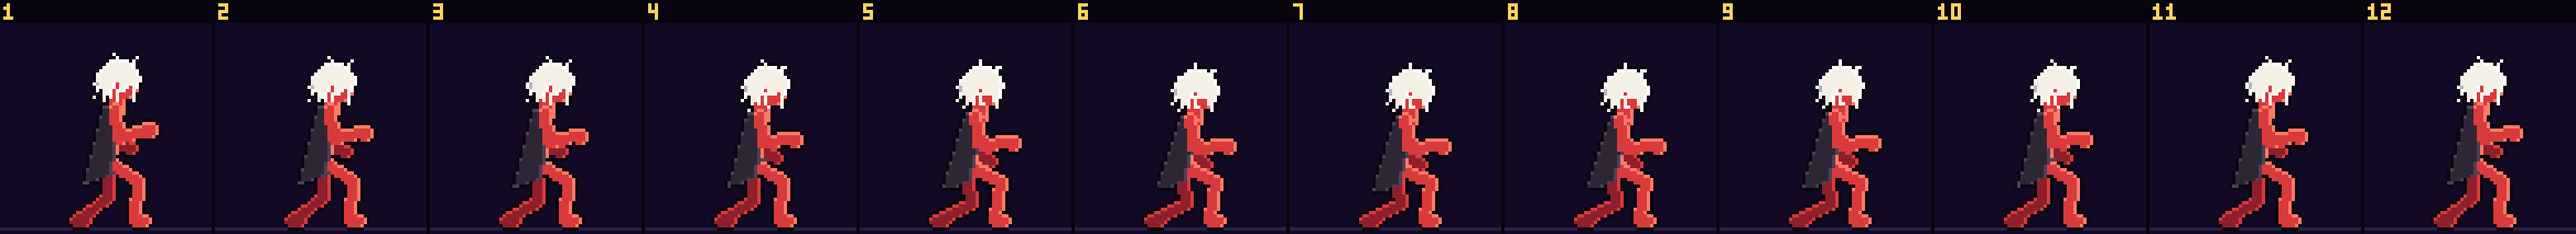
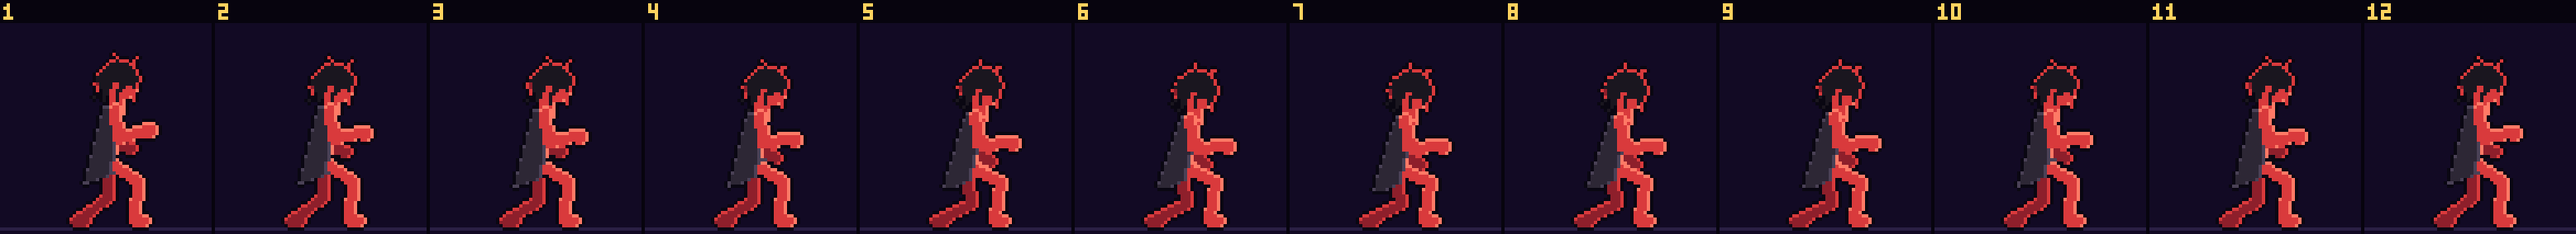
라이덴 머리 색을 검정·빨강으로 (사용자 결정): 검은 윗단에 붉은 윤기 테두리, 붉은 안쪽 머리. 빨간 머리는 붉은 몸·얼굴과 뭉쳐 모양이 사라져 검은 머리로 정함. 2P는 검붉은 안쪽 머리. 역안(눈)은 그리지 않기로 확정. 셔츠 깃 회색 이름 hairShade → shirtGrey. 캐릭터 기획서 표식·열린 질문 갱신, 겉모습 미리보기 다시 찍음
Claude-Session: https://claude.ai/code/session_01Q6VeBSuSW7Ut9sfqEmmRRh

diff --git a/src/anim/decor/raiden.ts b/src/anim/decor/raiden.ts
@@ -2,9 +2,10 @@ import type { Joints, Point } from '../pose';
 import type { Decor } from '../skeleton';
 
 /*
- * 라이덴 표식 (캐릭터 기획서): 흰 샤기컷 머리(삐쭉하게 삐친 선), 정장 재킷 자락과 넥타이.
+ * 라이덴 표식 (캐릭터 기획서): 샤기컷 머리(삐쭉하게 삐친 선), 정장 재킷 자락과 넥타이.
+ * 머리 색은 검정·빨강 (2026-11-01 결정, 처음 기획의 흰 머리에서 바꿈): 검은 윗단에 붉은 윤기 테두리, 붉은 안쪽 머리.
  * 모두 관절에 붙는 도형이라 어떤 동작에서도 따라간다. 오른쪽을 보는 모습 기준 (왼쪽은 시트를 그릴 때 뒤집는다).
- * 왼쪽 눈의 역안은 CLAUDE.md '눈 그리지 않기'와 겹쳐 아직 그리지 않는다.
+ * 왼쪽 눈의 역안은 그리지 않는다 (2026-11-01 결정, CLAUDE.md '눈 그리지 않기').
  */
 
 const add = (a: Point, b: Point, k = 1): Point => [a[0] + b[0] * k, a[1] + b[1] * k];
@@ -20,10 +21,10 @@ function torso(j: Joints): { up: Point; down: Point; front: Point } {
 }
 
 /**
- * 머리 (흰 샤기컷, 애니메이션 미소년풍): 머리 기준 좌표 [앞 +, 위 +] (머리 반지름 5).
+ * 머리 (샤기컷, 애니메이션 미소년풍): 머리 기준 좌표 [앞 +, 위 +] (머리 반지름 5).
  * 숱 많은 둥근 볼륨에, 가닥 끝이 가늘고 뾰족하게 아래로 떨어진다. 앞머리는 눈을 덮을 만큼 길게(코 높이까지),
  * 볼을 따라 가닥이 내려오고, 뒷머리는 목덜미로 부드럽게 처진다. 위로 몇 가닥이 가볍게 삐친다.
- * 두 겹: 아랫단(서늘한 회색, 그늘진 안쪽) 위에 윗단(흰색). 가닥: [뿌리 한쪽, 뿌리 다른 쪽, 끝]
+ * 두 겹: 아랫단(검붉은 안쪽 머리) 위에 윗단(검정, 빛 받는 가장자리는 붉은 윤기). 가닥: [뿌리 한쪽, 뿌리 다른 쪽, 끝]
  */
 type Lock = readonly [readonly [number, number], readonly [number, number], readonly [number, number]];
 /** 아랫단: 목덜미로 처지는 뒷머리 안쪽과 볼 옆으로 내려오는 가닥 */
@@ -75,7 +76,7 @@ export const RAIDEN_DECOR: Decor = {
       s.line(knot, add(add(top, down, 9), front, 1.8), 2);
     });
   },
-  /** 흰 머리: 아랫단(그늘) → 둥근 볼륨과 윗단 가닥 → 삐친 가닥 */
+  /** 머리: 아랫단(붉은 안쪽 머리) → 둥근 볼륨과 윗단 가닥 → 삐친 가닥 */
   head(pen, j) {
     const c = j.head;
     const r = j.ha;

diff --git a/src/render/palette.ts b/src/render/palette.ts
@@ -18,7 +18,7 @@ export const COLORS = {
   skyDark: '#2a7fa6',
   red: '#ff4d6d',
   green: '#7bd88f',
-  // 라이덴 (대표 색: 붉은 전격, 검붉은 잔상). 몸은 붉은색, 정장 재킷은 검은 보랏빛, 머리는 흰색
+  // 라이덴 (대표 색: 붉은 전격, 검붉은 잔상). 몸은 붉은색, 정장 재킷과 머리는 검은 보랏빛(머리는 붉은 안쪽 머리·붉은 윤기)
   raiden: '#d93a3c',
   raidenLight: '#ff7a66',
   raidenDark: '#8e1f2b',
@@ -29,7 +29,7 @@ export const COLORS = {
   suitGrey: '#575163',
   suitGreyLight: '#787286',
   suitGreyDark: '#38333f',
-  hairShade: '#b3b5c5',
+  shirtGrey: '#b3b5c5',
   // 이펙트 (Sprite Fusion 램프를 이 색으로 맞춘다). 캐릭터와 같은 팔레트를 쓴다
   fxWhite: '#ffffff',
   fxYellow: '#ffe26b',
@@ -168,5 +168,5 @@ export const COMMON: readonly ColorName[] = [
   'sky', 'skyLight', 'skyDark', 'red', 'green',
   'fxWhite', 'fxYellow', 'fxOrange', 'fxFlame', 'fxRed', 'fxSoot', 'fxBlue', 'fxDeepBlue', 'fxNavy', 'neonRed', 'neonPink',
   // 라이덴
-  'raiden', 'raidenLight', 'raidenDark', 'raidenDeep', 'suit', 'suitLight', 'suitDark', 'suitGrey', 'suitGreyLight', 'suitGreyDark', 'hairShade',
+  'raiden', 'raidenLight', 'raidenDark', 'raidenDeep', 'suit', 'suitLight', 'suitDark', 'suitGrey', 'suitGreyLight', 'suitGreyDark', 'shirtGrey',
 ];

diff --git a/src/anim/skins.ts b/src/anim/skins.ts
@@ -13,10 +13,10 @@ export interface Skin {
   looks: Partial<Record<LookName, Look>>;
 }
 
-/** 라이덴 1P: 붉은 몸, 검은 보랏빛 정장 재킷, 흰 셔츠 깃과 붉은 넥타이, 흰 머리 */
+/** 라이덴 1P: 붉은 몸, 검은 보랏빛 정장 재킷, 흰 셔츠 깃과 붉은 넥타이, 검은 머리(붉은 안쪽 머리, 붉은 윤기 테두리) */
 const RAIDEN_P1: Look = {
   outline: 'ink', shadow: 'raidenDark', base: 'raiden', light: 'raidenLight',
-  hair: ['hairShade', 'white', 'fxWhite'],
+  hair: ['raidenDark', 'suitDark', 'raiden'],
   cloth: ['suitDark', 'suit', 'suitLight'],
   accent: ['raiden', 'raidenLight'],
   trim: 'white',
@@ -24,10 +24,10 @@ const RAIDEN_P1: Look = {
 /** 라이덴 2P (같은 캐릭터끼리 붙을 때): 검붉은 몸, 회색 재킷 */
 const RAIDEN_P2: Look = {
   outline: 'ink', shadow: 'raidenDeep', base: 'raidenDark', light: 'raiden',
-  hair: ['hairShade', 'white', 'fxWhite'],
+  hair: ['raidenDeep', 'suitDark', 'raidenDark'],
   cloth: ['suitGreyDark', 'suitGrey', 'suitGreyLight'],
   accent: ['raidenDark', 'raiden'],
-  trim: 'hairShade',
+  trim: 'shirtGrey',
 };
 /** 검붉은 잔상 (대시·돌진) */
 const RAIDEN_GHOST: Look = { outline: 'raidenDark', shadow: 'raidenDark', base: 'raidenDark', light: 'raidenDark' };

diff --git a/docs/캐릭터기획서.md b/docs/캐릭터기획서.md
@@ -39,7 +39,7 @@ Oct 30, 2026 · @주호영
 | --- | --- |
 | 역할 | 근접 러시, 콤보가 길고 쉬움 |
 | 대표 색 | 붉은 전격, 검붉은 잔상 |
-| 스틱맨 표식 | 흰 샤기컷 머리(삐쭉하게 삐친 선), 정장 재킷 자락과 넥타이, 왼쪽 눈에 빛나는 역안 |
+| 스틱맨 표식 | 샤기컷 머리(삐쭉하게 삐친 선), 정장 재킷 자락과 넥타이. 머리는 검정·빨강(검은 머리에 붉은 안쪽 머리와 붉은 윤기, 2026-11-01 흰 머리에서 바꿈). 역안(눈)은 그리지 않는다(2026-11-01 결정) |
 | 평타 | MMA(종합격투기). 잽·스트레이트·훅·로킥·니킥처럼 짧고 빠른 타격으로 몰아친다. 타격마다 붉은 전격이 튄다 |
 | 움직임 | MMA 파이터의 바운스 스텝. 가드를 올린 채 가볍게 뛰며 걷고, 대시는 붉은 잔상을 남기며 낮게 파고든다. 점프는 힘있게 튀어오르고, 벽은 걸어차듯 딛는다 |
 
@@ -174,7 +174,7 @@ Oct 30, 2026 · @주호영
 정해진 것:
 
 - 라이덴은 빌런, 나머지 셋은 히어로다.
-- 라이덴 외형은 흰 샤기컷 머리에 정장이다.
+- 라이덴 외형은 샤기컷 머리에 정장이다. 머리는 검정·빨강이다 (2026-11-01, 흰 머리에서 바꿈).
 - 백은우의 회복·약화 필살기와 에드워드의 잡기형 필살기는 이대로 간다.
 - 각성은 넣되 나중에 넣는다. 후보는 라이덴의 해방, 오스카의 수라도다.
 - 승리·등장 대사는 넣지 않는다.
